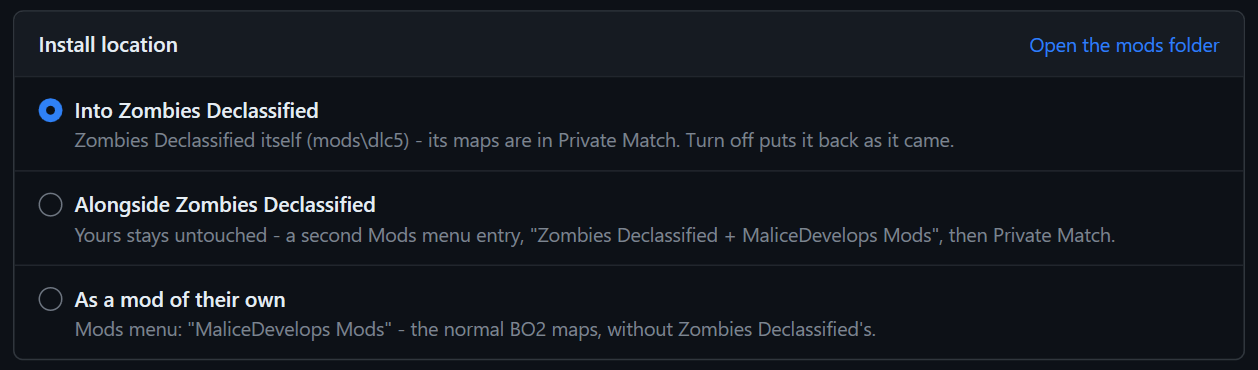
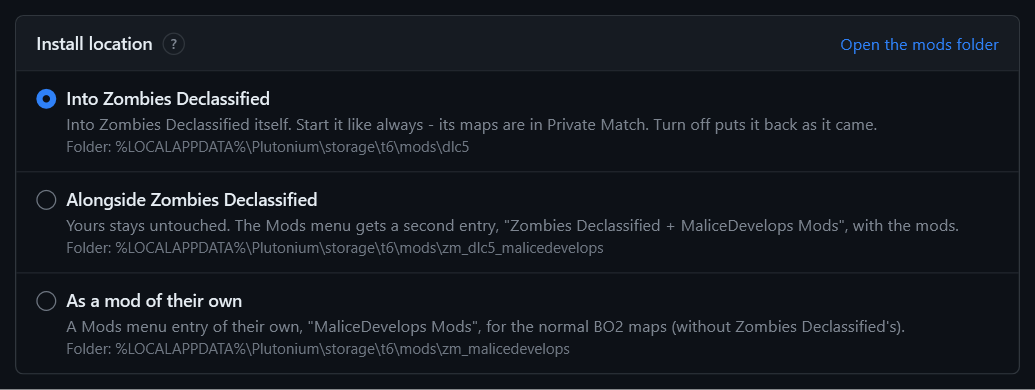
Installer 1.2: everything in the window - progress, where your mods are, Help with pictures

diff --git a/README.md b/README.md
@@ -25,11 +25,13 @@ Under **Assets**, download `MaliceDevelops_BO2_Mods_Installer_v<version>.zip`. *
 
 ### 1. Close Black Ops 2
 
-The installer won't run while the game is open.
+Files can't be changed while the game is open. If it is, the installer says so and waits for you to press **Try again**.
 
 ### 2. Unzip the download and double-click `Install.bat`
 
 Unzip it anywhere (your Downloads folder is fine). Windows may warn about running a downloaded `.bat`: Install.bat only downloads my mods from github.com/MaliceDevelops, checks every file's SHA-256, and copies them into place. You can read `installer\install.ps1` to see exactly what it does.
+
+A console flashes up for a second and the installer's window opens. Everything happens in that window from here on.
 
 ### 3. Tick the mods you want
 
@@ -40,6 +42,8 @@ Unzip it anywhere (your Downloads folder is fine). Windows may warn about runnin
 - Below each one is its download size; the top right shows the total for what you ticked.
 - Only the ticked mods are downloaded, each from its own GitHub page.
 
+Not sure what something is? **Hover over it** for a short explanation, or press a **?** (or **Help: how it all works**, top right) for a guide with pictures.
+
 ### 4. Choose where they go
 
 ![Install location](images/install-location.png)
@@ -47,20 +51,30 @@ Unzip it anywhere (your Downloads folder is fine). Windows may warn about runnin
 | Choice | What it does | How you play |
 | --- | --- | --- |
 | **Into Zombies Declassified** | Adds the mods to your Zombies Declassified itself (`mods\dlc5`). | Start Zombies Declassified like always. Its maps are under **Private Match**; the normal BO2 maps work too. **Turn off** gives you plain Zombies Declassified back any time. |
-| **Alongside Zombies Declassified** | Your Zombies Declassified stays exactly as it is. The Mods menu gets a second entry with the mods. | Open **Mods**, pick **Zombies Declassified + MaliceDevelops Mods**, then **Private Match** for its maps. Pick the plain **Zombies Declassified** entry to play without the mods. |
-| **As a mod of their own** | The mods in their own Mods menu entry, without Zombies Declassified. The only choice if you don't have it. | Open **Mods**, pick **MaliceDevelops Mods**, then play any normal BO2 map. |
+| **Alongside Zombies Declassified** | Your Zombies Declassified stays exactly as it is. The Mods menu gets a second entry with the mods (`mods\zm_dlc5_malicedevelops`). | Open **Mods**, pick **Zombies Declassified + MaliceDevelops Mods**, then **Private Match** for its maps. Pick the plain **Zombies Declassified** entry to play without the mods. |
+| **As a mod of their own** | The mods in their own Mods menu entry (`mods\zm_malicedevelops`), without Zombies Declassified. The only choice if you don't have it. | Open **Mods**, pick **MaliceDevelops Mods**, then play any normal BO2 map. |
 
-**Open the mods folder** opens Plutonium's mods folder (`%LOCALAPPDATA%\Plutonium\storage\t6\mods`), if you want to see what's where.
+Each choice shows the exact folder it uses. Your mods are only ever in one place: picking another one and pressing **Move** moves them there (nothing is downloaded again) - the window says so before you press it. **Open the mods folder** opens Plutonium's mods folder (`%LOCALAPPDATA%\Plutonium\storage\t6\mods`).
 
 ### 5. Press Install
 
-A console window shows each step: what it downloads, every file it copies, and where. Then the window comes back with **Installed.** at the top and your mods marked **Installed**. Press **Play** to open Plutonium (pick Black Ops II Zombies there), or close the window.
+The line above the buttons says exactly what will happen ("Install puts the Apothicon Servant and the Upgraded Cymbal Monkey into Zombies Declassified (63.3 MB to download)."). Press the green button and the window shows the progress: each download, then each file put in place. **Show details** lists every file and where it goes.
 
-The installer stays open after everything you do in it (Install, Repair, Uninstall, Turn off / on): only **Cancel**, the **X** and **Play** close it.
+![Installing](images/progress.png)
+
+When it's done, the window comes back with your mods marked **Installed** and **Installed.** at the top.
 
 ### 6. Play
 
-Start Black Ops 2 Zombies through Plutonium and play as described in step 4. If you put the mods into or alongside Zombies Declassified, remember that **its own maps are only listed in Private Match**: Solo shows the normal BO2 maps.
+Press **Play** to open Plutonium's launcher (pick Black Ops II Zombies there), and play as shown under **Where your mods are**. If you put the mods into or alongside Zombies Declassified, remember that **its own maps are only listed in Private Match**: Solo shows the normal BO2 maps.
+
+## Where your mods are
+
+Once something is installed, the top of the window says which mods are installed, where, and how to start them - plus their exact folder (**Open their folder** opens it) and where their sound banks went.
+
+![Where your mods are](images/where-your-mods-are.png)
+
+The installer writes down every file it puts on your PC (in `%LOCALAPPDATA%\Plutonium\storage\t6\malicedevelops_mods.json`). **Repair**, **Move** and **Uninstall** work from that list: they never search your folders, and nothing else in them is touched. The sound banks are the one part outside Plutonium's folder - Black Ops 2 only reads sound banks from its own `sound` folder.
 
 ## The shortcut
 
@@ -74,10 +88,18 @@ Open the shortcut. Your installed mods are ticked and marked **Installed**:
 
 ![Installed mods](images/mods-installed.png)
 
-- **Add a mod:** tick it and press **Install**.
-- **Remove a mod:** untick it and press **Install**, or press its **Uninstall** button.
-- **Update:** a mod with a newer version shows **Update from ...**. Press **Install**. Your settings are kept, and nothing that's already up to date is downloaded again.
-- **Move them:** pick another install location and press **Install**.
+The green button always says what it will do, and the line above it spells it out:
+
+| The button says | When |
+| --- | --- |
+| **Install** | You ticked a mod that isn't installed yet. |
+| **Update** | A ticked mod shows **Update from ...**: a newer version is out. Only what changed is downloaded; your settings are kept. |
+| **Remove** | You unticked an installed mod (its own **Uninstall** button does the same). |
+| **Move** | You picked another install location. |
+| **Apply changes** | More than one of these at once. |
+| **Up to date** | Nothing to do. |
+
+The installer stays open after everything you do in it; only **Close**, the **X** and **Play** close it.
 
 The buttons at the bottom:
 
@@ -86,10 +108,10 @@ The buttons at the bottom:
 | Button | What it does |
 | --- | --- |
 | **Play** | Opens Plutonium's launcher. |
-| **Repair** | Checks every installed file against the published version and downloads again only what's missing or damaged. Your settings are kept. Use it if a mod acts broken, or after a Zombies Declassified update. |
-| **Turn off** / **Turn on** | Only for mods installed into Zombies Declassified. **Turn off** sets them aside so Zombies Declassified plays exactly as it came; **Turn on** puts them back. Nothing is downloaded again. |
-| **Uninstall all** | Removes all of my mods and puts back anything it set aside. The installer and its shortcut stay. |
-| **Cancel** / **Install** | Close without changes / apply what you ticked and chose. |
+| **Repair** | Checks every installed file against the published version and downloads again only what's missing or damaged. Your settings are kept. Use it if a mod acts broken (black textures, no sound, it doesn't show up), or after a Zombies Declassified update or reinstall. |
+| **Turn off** / **Turn on** | Only for mods installed into Zombies Declassified. **Turn off** sets them aside so Zombies Declassified plays exactly as it came; **Turn on** puts them back. Nothing is deleted or downloaded. |
+| **Uninstall all** | Removes all of my mods and puts back anything it set aside. Asks first. The installer and its shortcut stay. |
+| **Close** | Closes the installer. |
 
 ## Settings
 
@@ -98,6 +120,10 @@ A mod with settings gets a **Settings** button once it's installed:
 <img src="images/settings.png" width="620" alt="A mod's settings">
 
 Tick or untick what you want and press **Save**; it takes effect in your next game. **Reset to defaults** puts back the mod's own settings. **Open the file** opens the settings file in Notepad. Your settings are kept when you update.
+
+## Help
+
+**Help: how it all works** (top right) and each **?** open a guide inside the installer: every part of the window explained, with pictures - picking mods, where they go, playing, updates, Repair, Turn off / on, Settings, Uninstall, the shortcut, and what to do if something goes wrong. Hovering over anything gives a short explanation too.
 
 ## Each mod's own download
 
@@ -109,7 +135,7 @@ It installs, updates or removes only that mod, and leaves any other mod of mine 
 
 ## Uninstall
 
-Close BO2 and press **Uninstall all** in the window (or double-click **Uninstall.bat**). It removes all of my mods and puts back anything it set aside. Your Zombies Declassified is left as it came. The installer and its **MaliceDevelops BO2 Mods** shortcut stay, so you can install again; to remove them too, delete the shortcut and the folder `%LOCALAPPDATA%\MaliceDevelops`.
+Press **Uninstall all** in the window, or double-click **Uninstall.bat** (it opens the same window). Either way it first says exactly what goes and from where, and asks. It removes only what the installer put on your PC, and puts back anything it set aside. Your Zombies Declassified is left as it came. The installer and its **MaliceDevelops BO2 Mods** shortcut stay, so you can install again; to remove them too, delete the shortcut and the folder `%LOCALAPPDATA%\MaliceDevelops`.
 
 ## How it stays lean
 
@@ -124,7 +150,7 @@ Close BO2 and press **Uninstall all** in the window (or double-click **Uninstall
 - **Other mods:** script mods like B2OP work fine alongside.
 - **After a Zombies Declassified update or install:** open the shortcut and press **Repair**. **Zombies Declassified + MaliceDevelops Mods** gets the update then too.
 - **Install by hand:** `README.txt` in the download has the steps.
-- **Bugs:** open an issue on that mod's page.
+- **Bugs:** open an issue on that mod's page. The installer's **Show details** lists every step it took - include it.
 
 ## Credits
 

diff --git a/CHANGELOG.md b/CHANGELOG.md
@@ -2,7 +2,14 @@
 
 ## Installer 1.2 (pack 3)
 
-- The installer stays open after you do something in it. After Install, Repair, Uninstall, Uninstall all or Turn off / on, the window comes back with your mods as they are now and what was done at the top. Only Cancel, the X and Play close it.
+- Everything happens in the installer's window - no more console. It shows each download and install step with a progress bar (Show details lists every file and where it goes), and problems with what to do and Try again.
+- The window stays open after Install, Repair, Uninstall, Uninstall all and Turn off / on: it comes back with your mods as they are now, and what was done at the top. Only Close, the X and Play close it.
+- "Where your mods are" at the top: which mods are installed, where, their exact folder, and how to play them.
+- The green button says what it will do - Install, Update, Remove, Move, Apply changes, or Up to date - and the line above it spells it out. Each install location shows its folder; picking another one says the mods will move there.
+- Uninstall (one mod or all) asks first and says exactly what goes, and from where.
+- Hover over anything for an explanation. Help (top right) and each ? open a guide inside the installer, with pictures.
+- Uninstall.bat runs in the same window, and asks first.
+- When Plutonium doesn't say where Black Ops 2 is, the window asks (with Steam's folder to pick, if it finds one).
 - Installers from earlier packs update themselves to 1.2 the next time they run.
 
 ## Installer 1.1 (pack 2)
